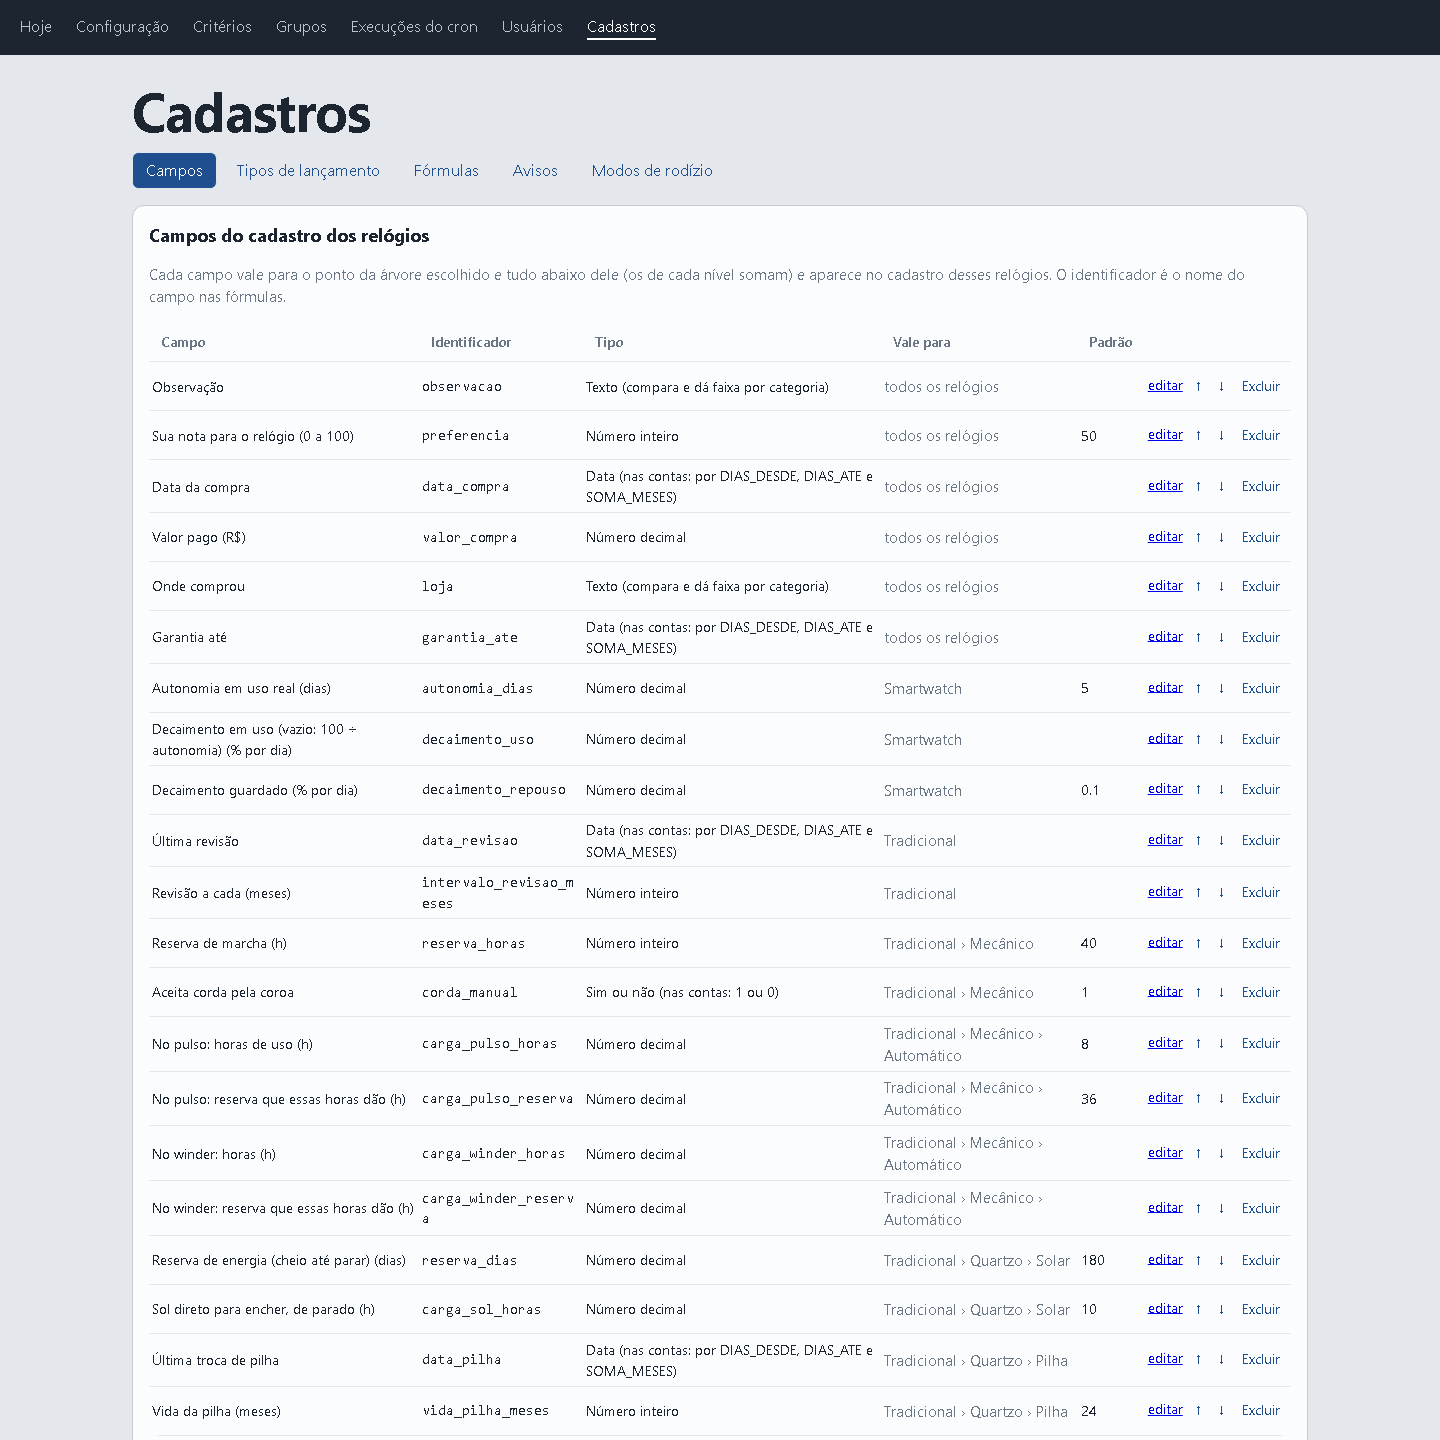
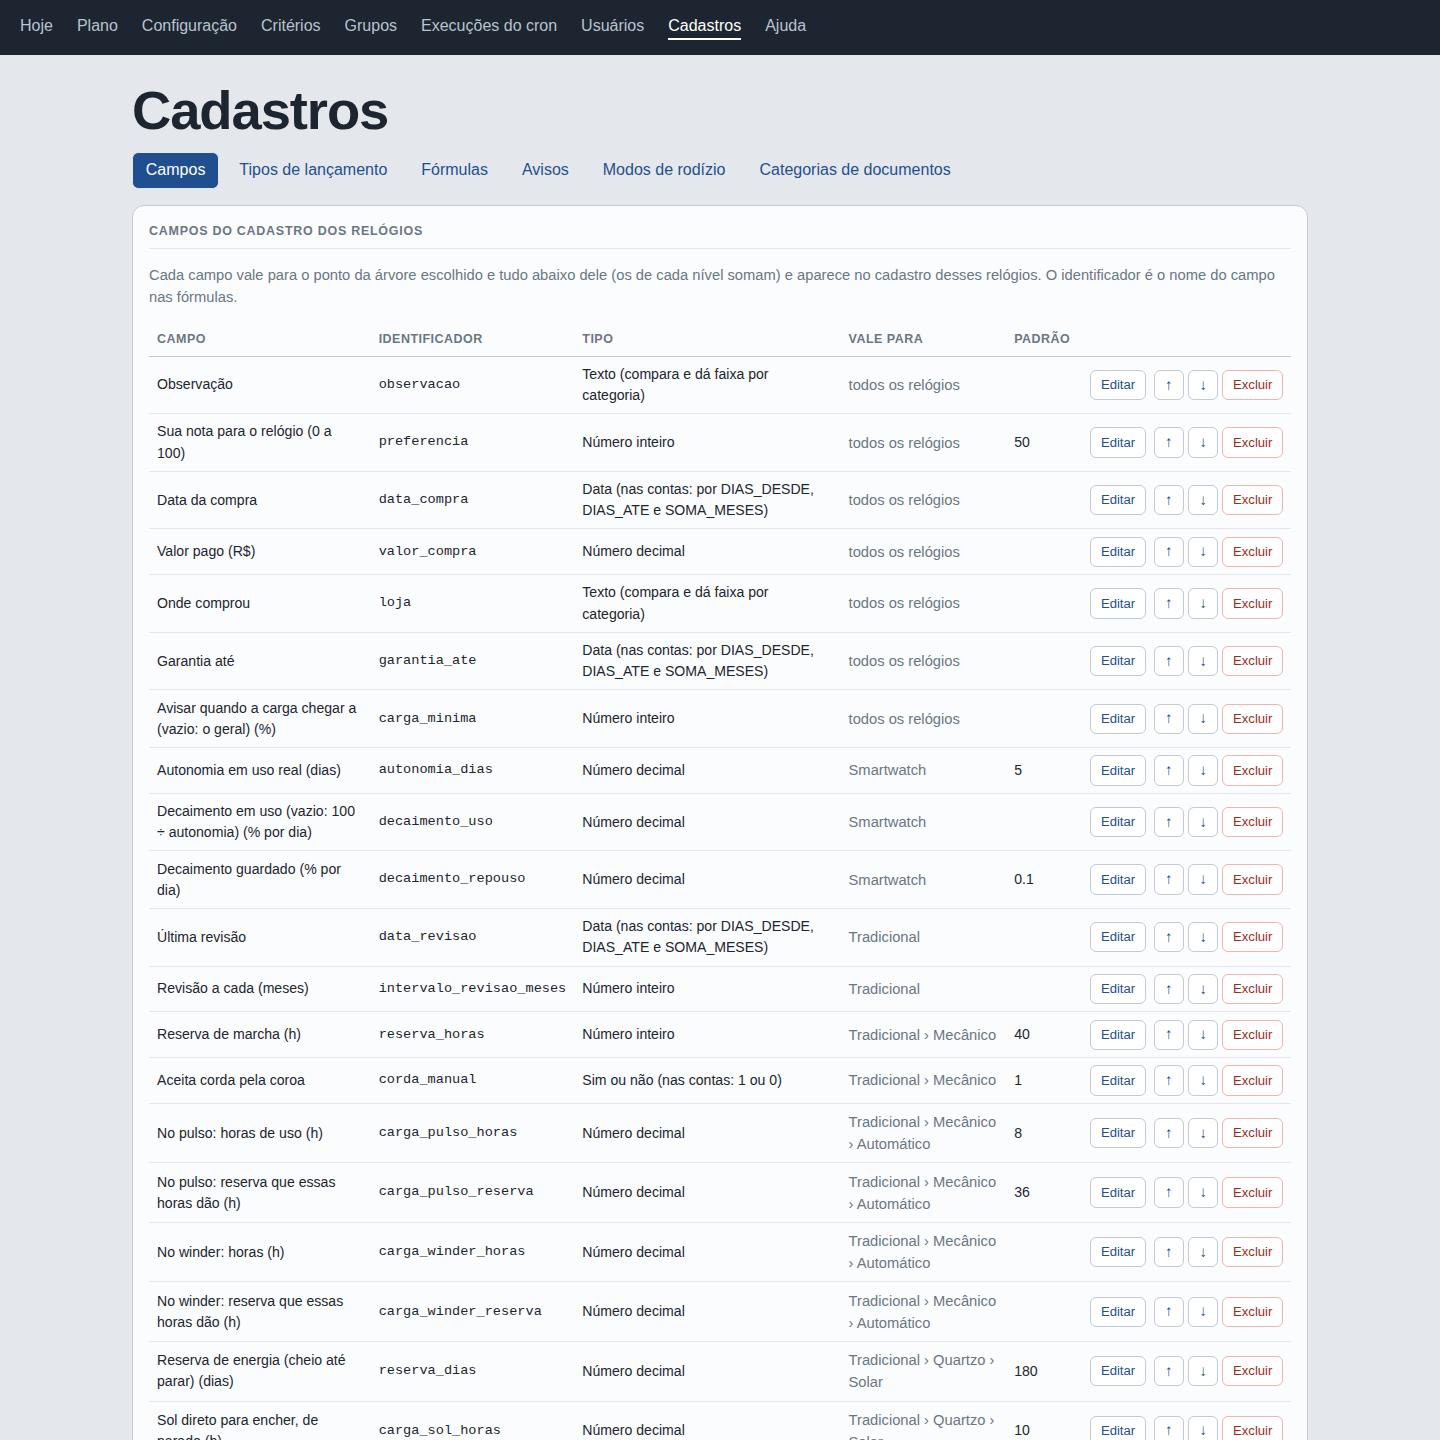
Cenário de paridade roda a qualquer hora; capturas do README no layout novo
O cenário monta as datas no FUSO do sistema (config.php ou RELOGIOS_FUSO): antes usava o fuso do PHP e, à noite no
Brasil, os lançamentos de "agora há pouco" caíam no futuro e a API recusava. As capturas de tela do README foram
refeitas com o layout atual, numa coleção de demonstração.

diff --git a/testes/cenario.php b/testes/cenario.php
@@ -12,6 +12,18 @@ if (PHP_SAPI !== "cli" || count($argv) < 3) {
 $API = $argv[1];
 $SAIDA = $argv[2];
 $TOKEN = getenv("RELOGIOS_TOKEN") ?: "token-de-teste-123";
+// O fuso do sistema: as datas e horas que o roteiro manda (o "quando" de cada lançamento) a API lê no FUSO do config.php.
+// Montadas em outro fuso, elas caem fora do lugar: à noite no Brasil já é o dia seguinte em UTC, e "hoje 00:20" vira uma
+// hora no futuro, que a API recusa. O fuso vem da variável RELOGIOS_FUSO ou, sem ela, do config.php da pasta do sistema
+$fuso = (string)getenv("RELOGIOS_FUSO");
+if ($fuso === "" && is_file(__DIR__ . "/../config.php")) {
+    require __DIR__ . "/../config.php";
+    $fuso = defined("FUSO") ? trim((string)constant("FUSO")) : "";
+}
+if ($fuso !== "" && !@date_default_timezone_set($fuso)) {
+    fwrite(STDERR, "Fuso desconhecido: " . $fuso . "\n");
+    exit(1);
+}
 $falhas = [];
 $passo = 0;
 
@@ -65,6 +77,12 @@ function cron()
 function dia($dias_atras, $hora)
 {
     return date("Y-m-d", strtotime("-" . (int)$dias_atras . " days")) . " " . $hora;
+}
+
+// um instante de agora há pouco (minutos atrás): o que tem de estar no passado mesmo rodando logo depois da meia-noite
+function ha_minutos($minutos)
+{
+    return date("Y-m-d H:i", time() - (int)$minutos * 60);
 }
 
 $foto = ["escritas" => [], "leituras" => [], "cron" => []];
@@ -129,9 +147,9 @@ $lanc("periodo", "manual", "pulso", ["inicio" => dia(30, "09:00"), "fim" => dia(
 $lanc("lancar", "manual", "corda", ["quando" => dia(30, "09:00")]);
 $lanc("lancar", "pilha", "pilha", ["quando" => dia(400, "10:00")]);
 $lanc("periodo", "solar", "sol", ["inicio" => dia(8, "10:00"), "fim" => dia(8, "16:00")]);
-$lanc("iniciar", "solar", "sol", ["quando" => dia(0, "00:20")]);
-$lanc("iniciar", "auto2", "winder", ["quando" => dia(0, "00:10")]);
-$lanc("encerrar", "auto2", "winder", ["quando" => dia(0, "00:15")]);
+$lanc("iniciar", "solar", "sol", ["quando" => ha_minutos(20)]);
+$lanc("iniciar", "auto2", "winder", ["quando" => ha_minutos(30)]);
+$lanc("encerrar", "auto2", "winder", ["quando" => ha_minutos(25)]);
 $lanc("lancar", "crono", "banho_ultrassom", ["quando" => dia(1, "15:00")]);
 $id_errado = $lanc("lancar", "crono", "banho_ultrassom", ["quando" => dia(1, "16:00")]);
 escrever(["recurso" => "lancamento", "acao" => "excluir", "id" => $id_errado]);

diff --git a/testes/README.md b/testes/README.md
@@ -45,6 +45,10 @@ pela API, do jeito que uma pessoa usa o sistema:
    php testes/comparar.php mysql.json sqlite.json
    ```
 
+O cenário monta as datas e horas no mesmo fuso do sistema: o `FUSO` do `config.php` da pasta do sistema (ou a variável
+`RELOGIOS_FUSO`, se o sistema estiver noutro lugar). Assim ele roda em qualquer hora do dia, inclusive à noite no Brasil (quando
+em UTC já é o dia seguinte) e logo depois da meia-noite.
+
 Rode os bancos **ao mesmo tempo**, cada um no seu servidor: com minutos de diferença entre as rodadas, as contas que andam
 com o tempo passam da folga. O resultado esperado é `0 diferenças graves`; as leves (`--leves` mostra) são os números
 dentro dos textos, como "há 3 min", e os arredondamentos bem na fronteira, como 23,499 e 23,501.

diff --git a/README.md b/README.md
@@ -11,8 +11,9 @@
 
 ![A página Hoje: o relógio do dia, o que fazer hoje, a escala dos próximos dias e o painel de um relógio](docs/telas/hoje.png)
 
-<sub>A página **Hoje** com uma coleção real de 14 relógios: o do dia (o Orient automático, com o lembrete de pôr no winder), o
-que fazer hoje, a escala inteligente dos próximos dias e, à direita, o painel do San Martin.</sub>
+<sub>A página **Hoje** com uma coleção de demonstração de 8 relógios (modelos comuns, seis semanas de uso lançadas pela API): o
+do dia (o Casio, no pulso desde as 7h), o que fazer hoje, a escala inteligente dos próximos dias e, à direita, o painel do
+Tissot, aberto ao lado (na Configuração ele pode abrir flutuante, por cima da página).</sub>
 
 | | |
 |---|---|
